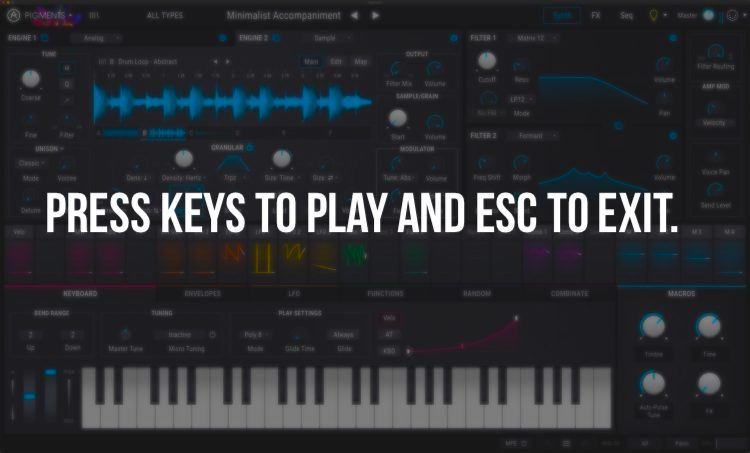
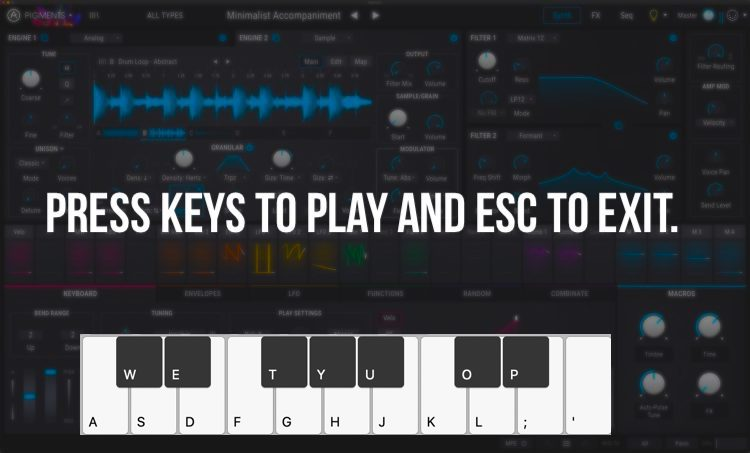
New Version Saturday May 30th

Changed region(s): [[0.092, 0.7108, 0.828, 0.9581]]

diff --git a/keyboard.py b/keyboard.py
@@ -1,8 +1,12 @@
 import sys
 import os
+import synthplayer
 from scipy.io import wavfile
 import contextlib
 import pygame
+import numpy as np
+import sounddevice as sd
+from synthesizer import Player, Synthesizer, Waveform
 
 #def playSoundclip(character, stream):
 
@@ -21,38 +25,44 @@ def displayGraphics():
     pygame.display.flip()
 
 # This function gets the input from the keyboard until the user presses 'esc'
-def keyboardInput():
+def keyboardInput(soundArray, keyArray):
+    isPlaying = {k: False for k in keyArray}
     while True:
         press = pygame.event.wait()
         if press.type in (pygame.KEYDOWN, pygame.KEYUP):
             key = pygame.key.name(press.key)
         if press.type == pygame.KEYDOWN:
-            if press.key == pygame.K_ESCAPE:
+            if (key in keyArray) and (not isPlaying[key]):
+                sd.play(soundArray[key])
+                isPlaying[key] = True
+            elif press.key == pygame.K_ESCAPE:
                 pygame.quit()
                 sys.exit()
-            else:
-                print("keydown")
         if press.type == pygame.KEYUP:
-            print("keyup")
-        
-        x, y = pygame.mouse.get_rel()
-        print(x)
+            sd.stop()
+            isPlaying[key] = False
 
 
 def main():
     # initializing the game
     os.environ['PYGAME_HIDE_SUPPORT_PROMPT'] = "hide"
-
+    #fps = 44100
+    # sound = wavfile.read("noteA.wav")
     pygame.init()
     displayGraphics()
+    pygame.mixer.init(44100, -16, 1, 2048)
+    player = Player()
+    player.open_stream()
+    synthesizer = Synthesizer(osc1_waveform=Waveform.sine, osc1_volume=1.0, osc2_waveform=Waveform.sine, use_osc2=1.0)
 
-    #filename = "pianoSample1.wav"
-    #fps, sound = wavfile.read(filename)
-    #pygame.mixer.pre_init(fps, size=-16, channels=2)
-    #pygame.mixer.init()
-    #soundArray = pygame.sndarray.make_sound(sound)
-    #soundArray.play()
-    keyboardInput()
+    frequencyArray = [130.81, 138.59, 146.83, 155.56, 164.81, 174.61, 185.00, 196.00, 207.65, 220.00, 233.08, 246.94, 261.63, 277.18, 293.66, 311.13, 329.63]
+    keyArray = ['a', 'w', 's', 'e', 'd', 'f', 't', 'g', 'y', 'h', 'u', 'j', 'k', 'o', 'l', 'p',';']
+    soundArray = {}
+    for i in range (len(frequencyArray)):
+        newSound = synthesizer.generate_constant_wave(frequencyArray[i], length=4)
+        soundArray.update({keyArray[i]:newSound})
+
+    keyboardInput(soundArray, keyArray)
 
 
 if __name__ == '__main__':
